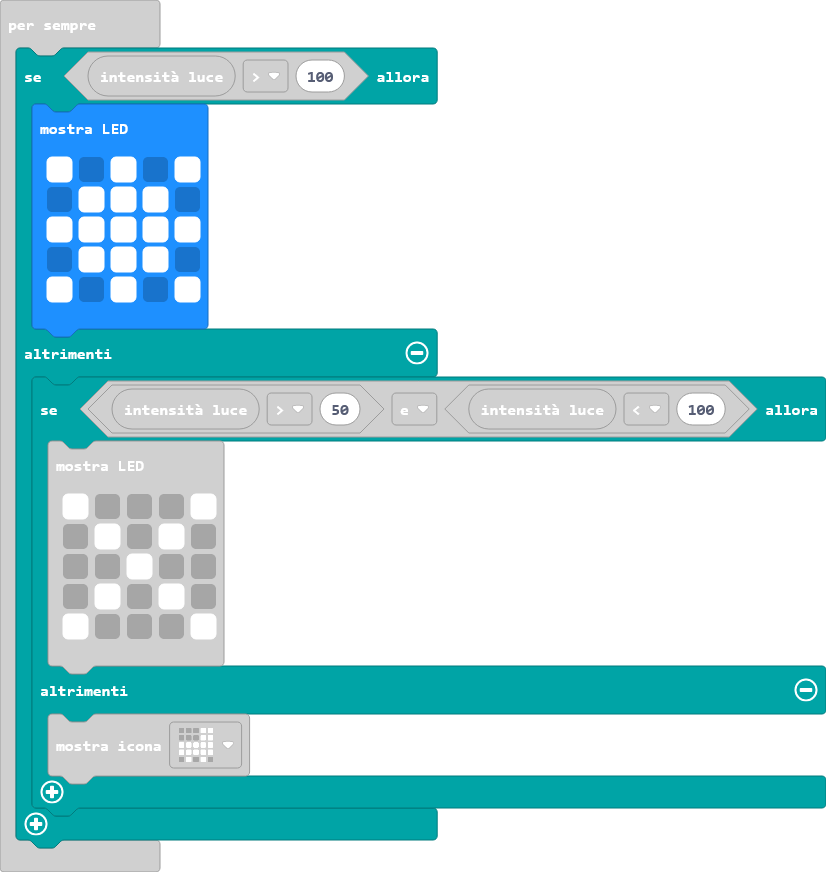
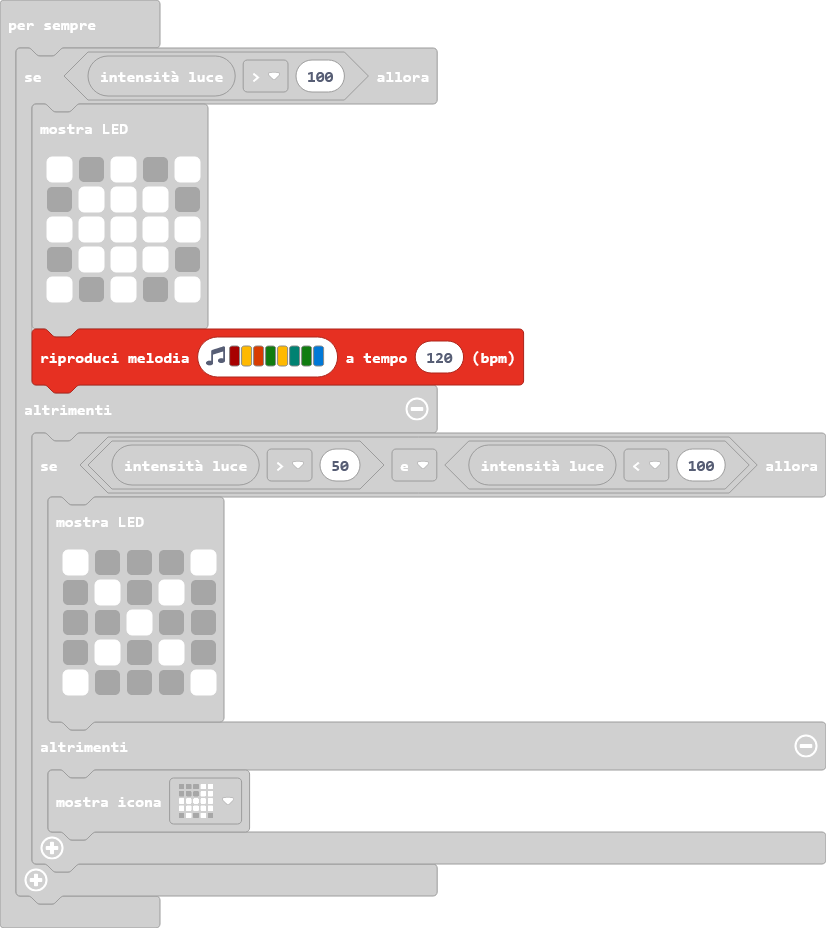
Aggiorna main.blocks, main.ts

diff --git a/main.ts b/main.ts
@@ -7,6 +7,7 @@ basic.forever(function () {
             . # # # .
             # . # . #
             `)
+        music.playMelody("C5 A B G A F G E ", 120)
     } else {
         if (input.lightLevel() > 50 && input.lightLevel() < 100) {
             basic.showLeds(`
